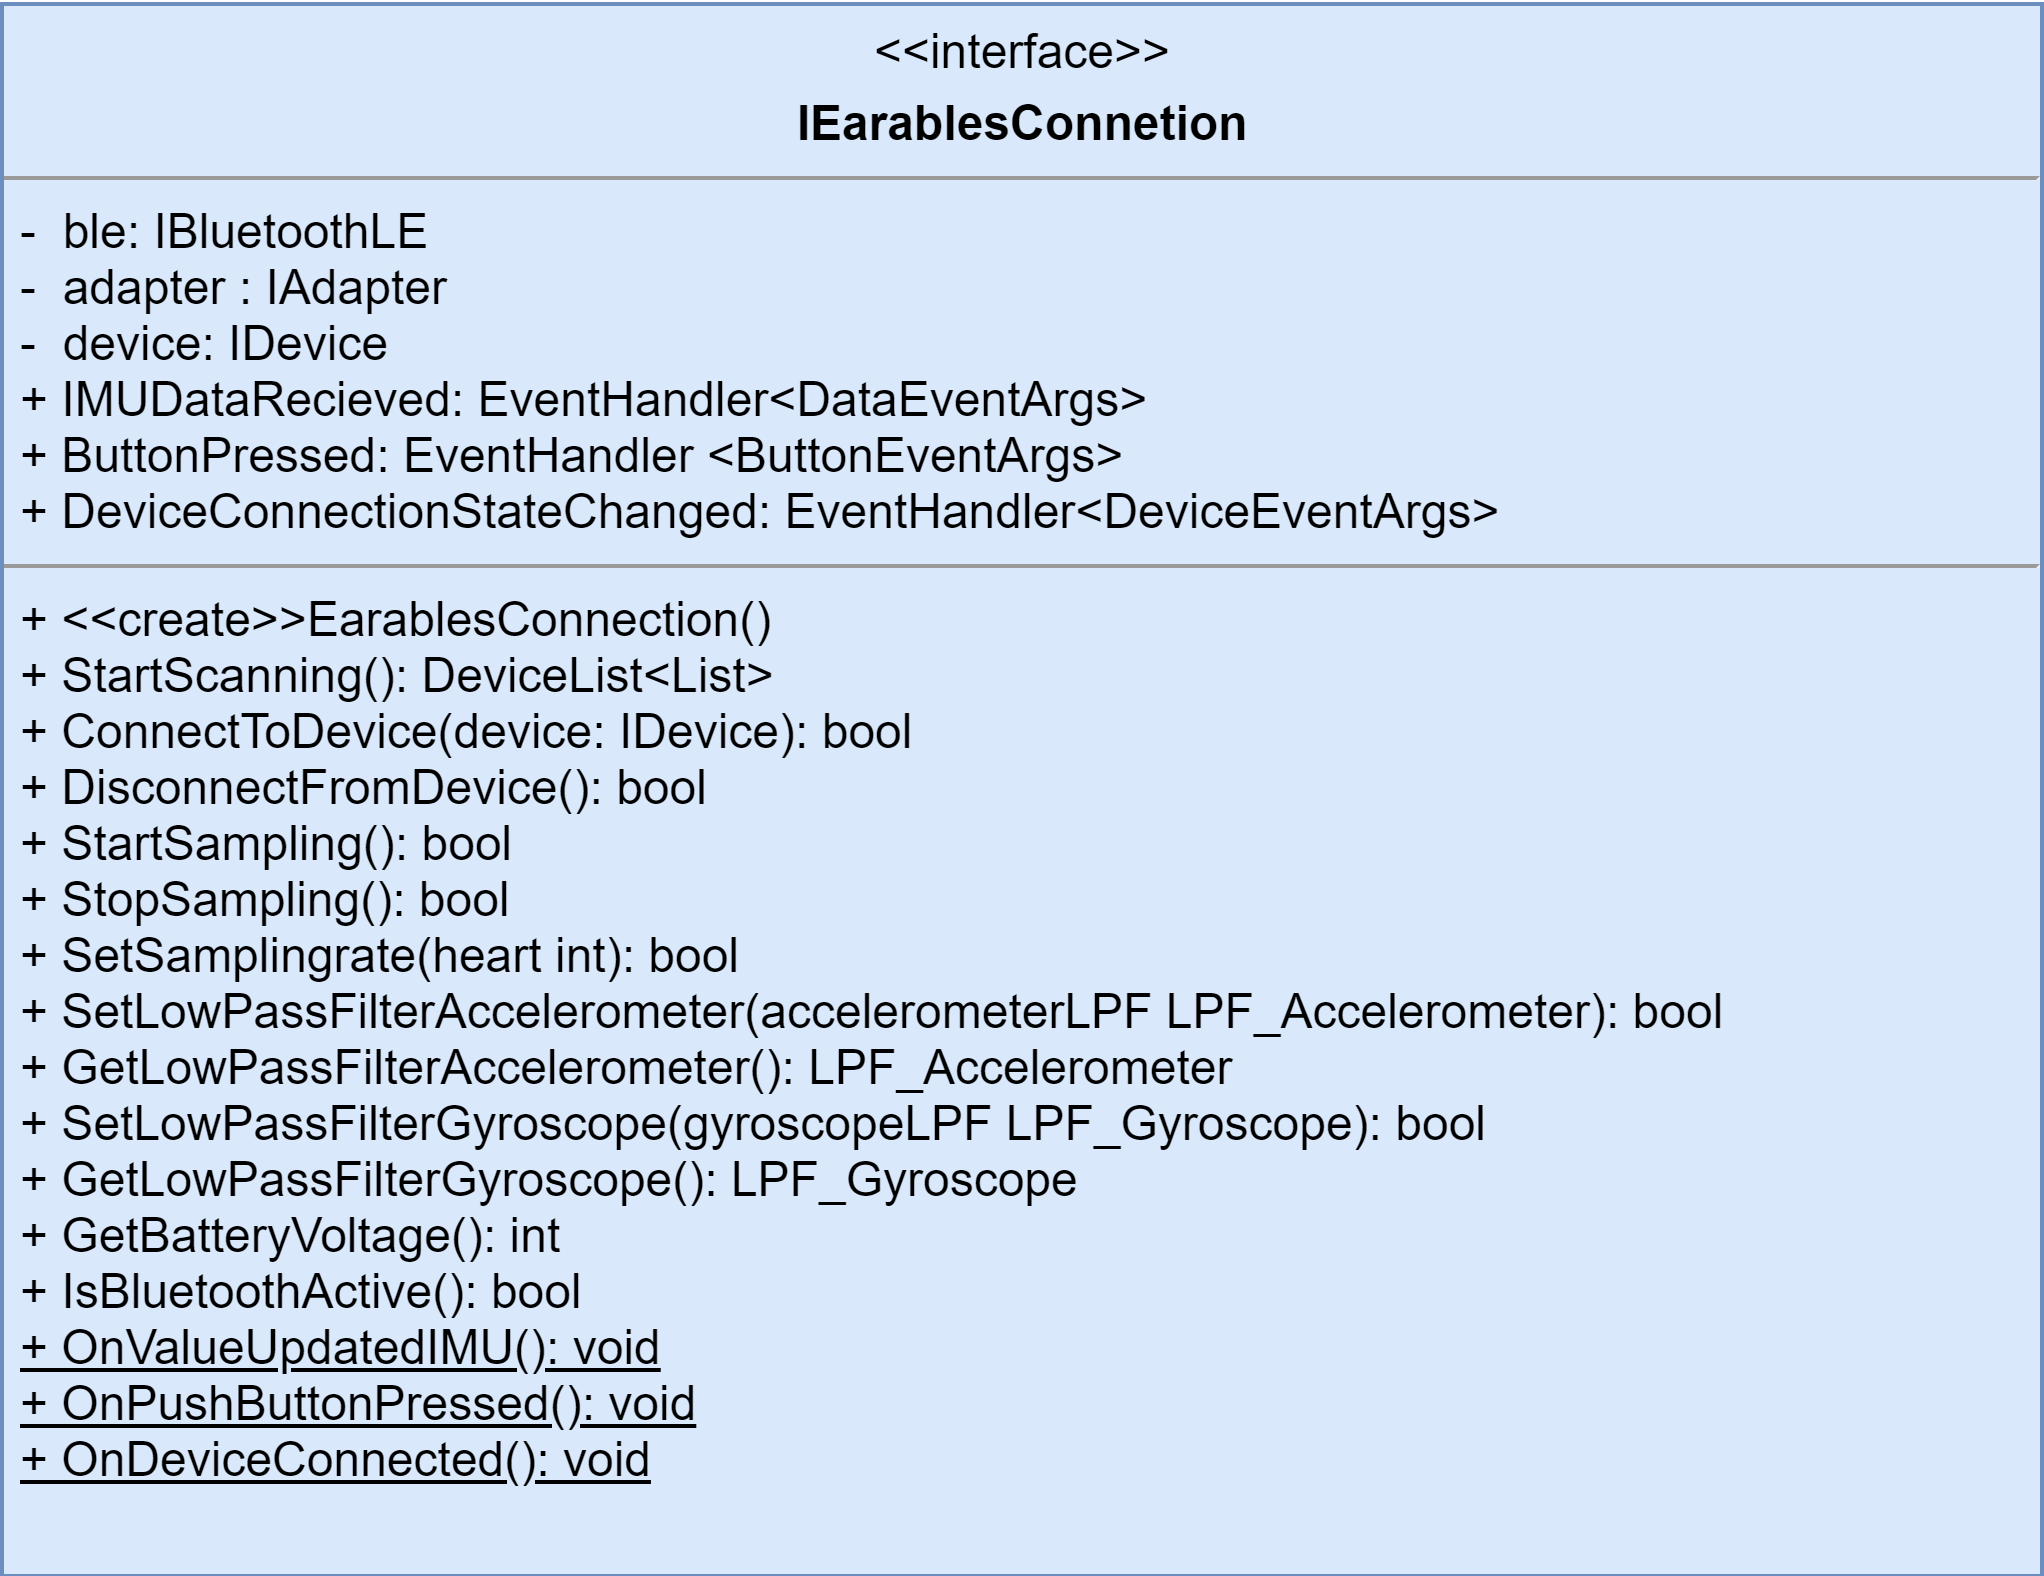
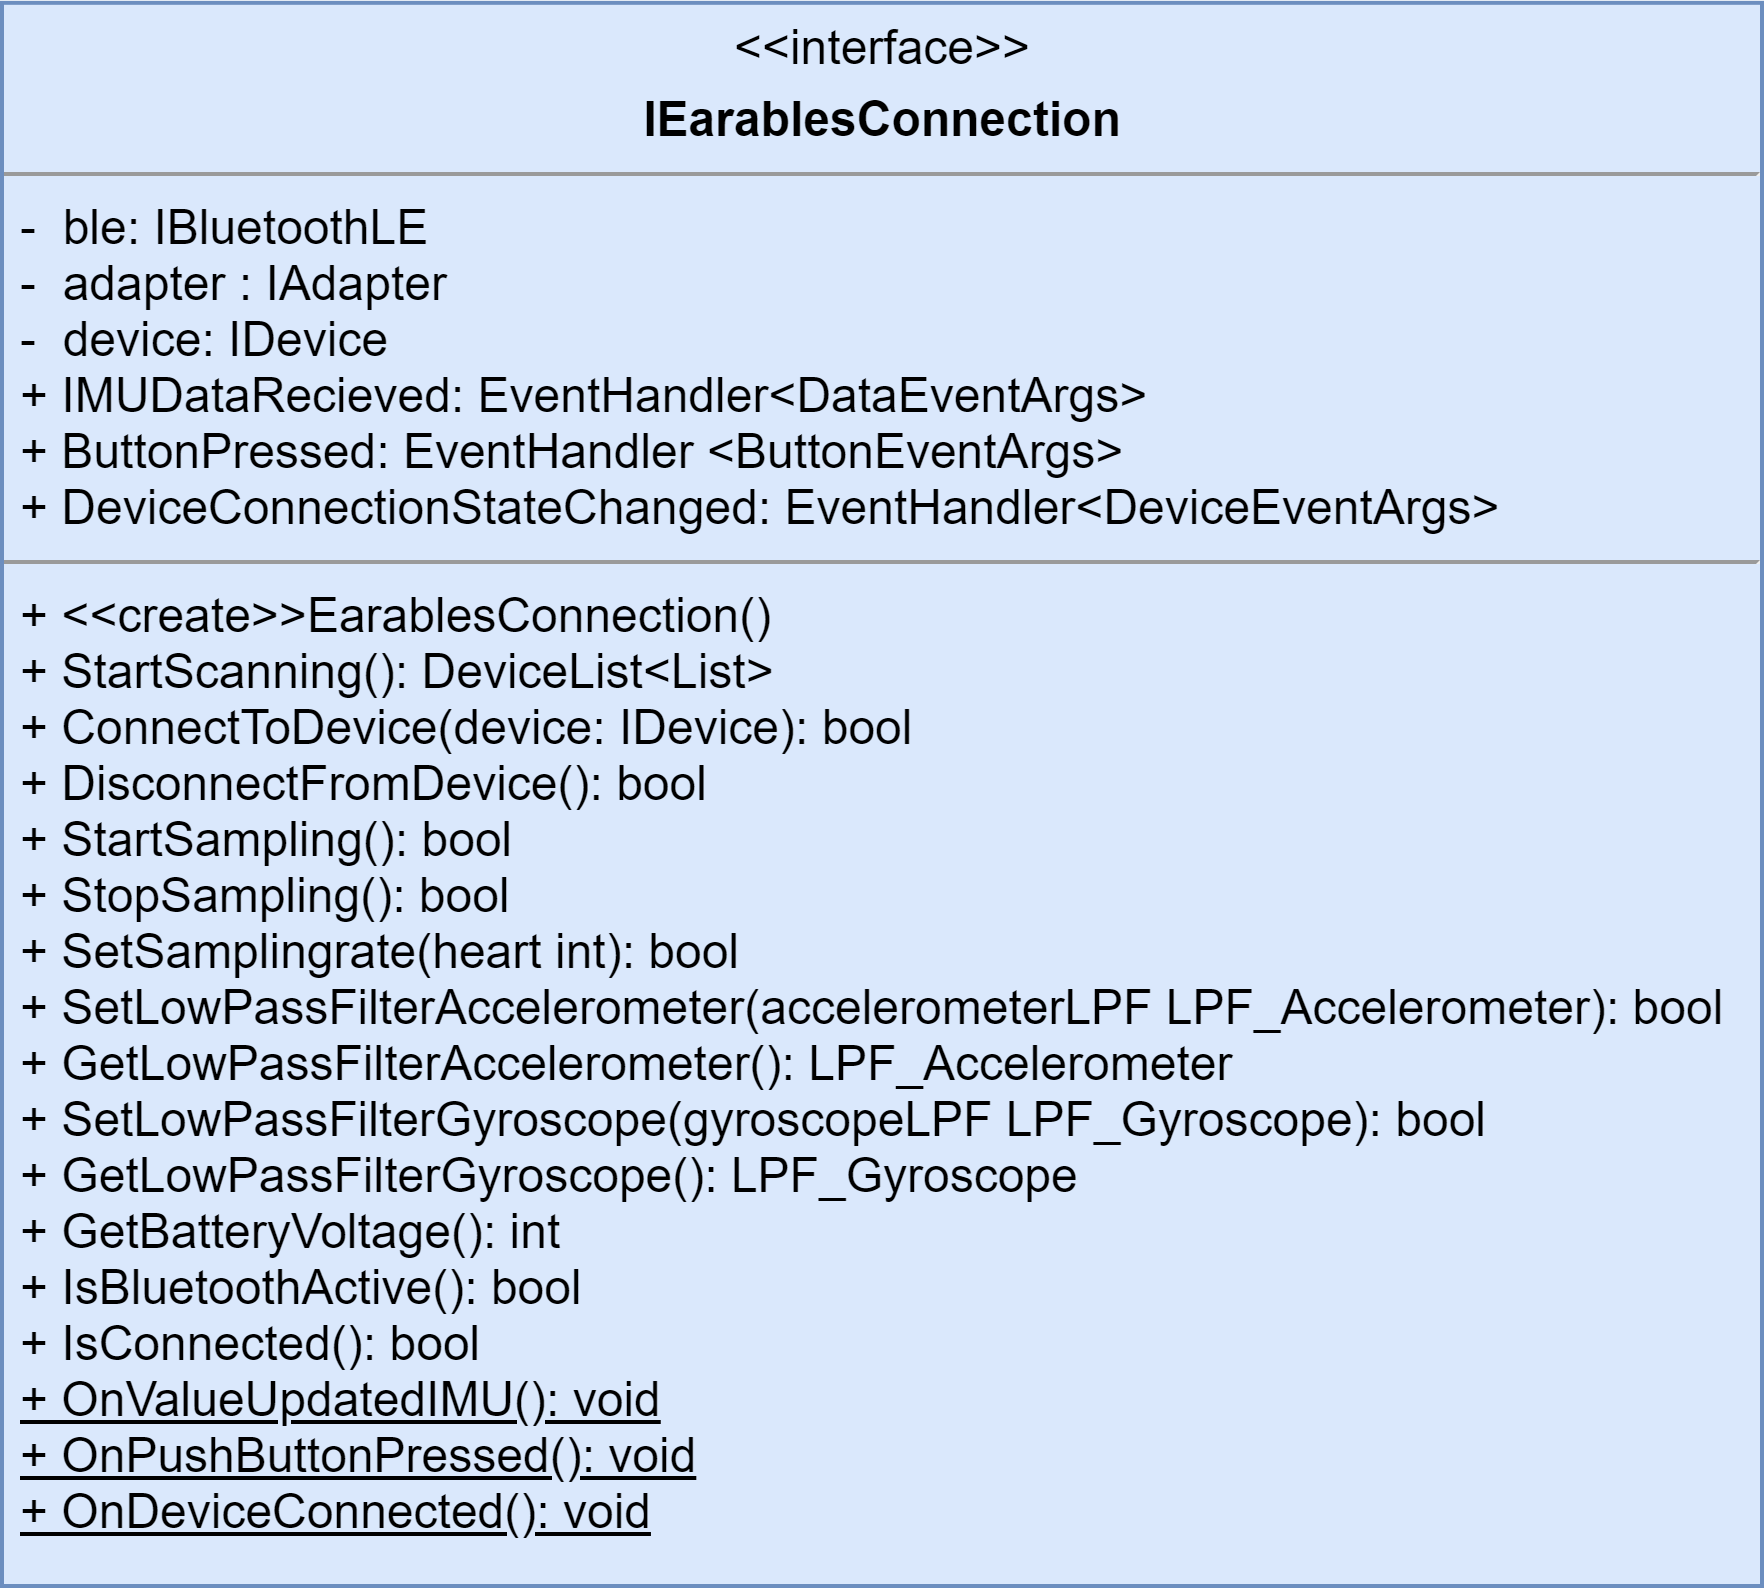
Methode in der Bib hinzugefügt, mit der man den Connection state abfragen kann (Auf Tobis Wunsch). Daraufhin die Doku, FINAL und KOMPAKT angepasst.

Changed region(s): [[0.0, 0.0, 1.0, 1.0]]

diff --git a/Entwurf/Entwurfsdokument/entwurfprotokoll.tex b/Entwurf/Entwurfsdokument/entwurfprotokoll.tex
@@ -161,6 +161,7 @@ Diese Klasse ist das Herz der Bibliothek. Sie ist die Schnittstelle, über die s
 	\item[+] \textbf{GetLowPassFilterGyroscope(): LPF\_Gyroscope}\\Die Methode gibt an auf was der LPF des Gyroskops momentan gesetzt ist. Er wird in Form des LPF\_Gyroscope Enums zurückgegeben. 
 	\item[+] \textbf{GetBatteryVoltage(): int}\\ Gibt die Voltanzahl der Batterie zurück. Die Methode ReadAsync aus dem BLE\_Plugin ermöglicht es die entsprechende Charakteristik zu lesen.
 	\item[+] \textbf{IsBluetoothActive(): bool}\\ Zeigt an ob Bluetooth auf dem Smartphone aktiviert ist. Gibt true zurück falls Bluetooth aktiviert ist und false, falls nicht.
+	\item[+] \textbf{IsConnected(): bool}\\ Gibt true zurück falls eine Bluetoothverbindung, zu einem Gerät existiert. Ansonsten wird false zurück gegeben.
 	\item[+] \textbf{static OnValueUpdatedIMU(): void}\\ Falls neue IMU Daten vorliegen, wird diese Methode aufgerufen und feuert das Event IMUDataReceived.
 	\item[+] \textbf{static OnPushButtonPressed(): void}\\ Falls der Knopf an den \Gls{Earables} gedrückt wurde, wird diese Methode aufgerufen und feuert das Event ButtonPressed.
 	\item[+] \textbf{static OnDeviceConnected(): void}\\ Falls eine Verbindung mit einem Device hergestellt wurde oder eine bestehende Verbindung aufgelöst wurde, wird diese Methode aufgerufen und feuert das Event DeviceConnectionStateChanged.
